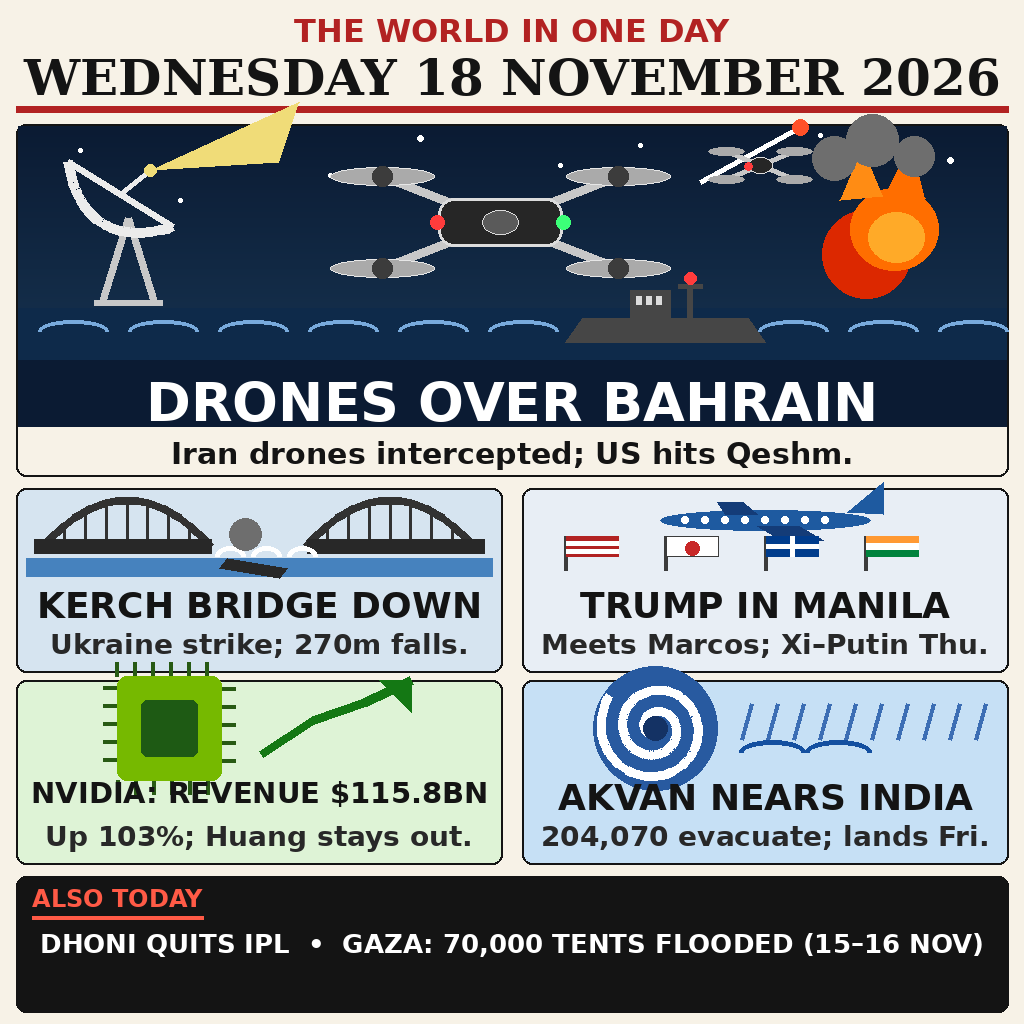
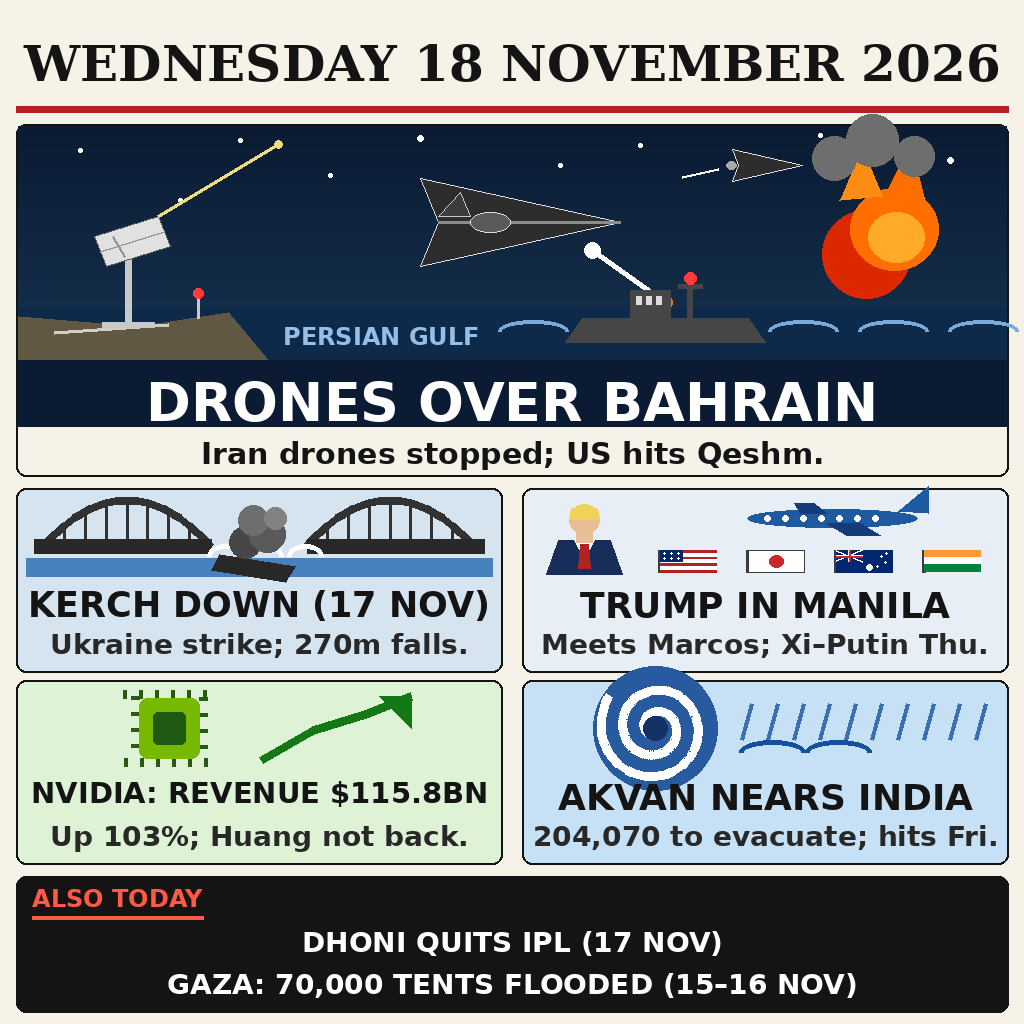
R2: fix JUDGE-R1 findings — flags, dates, hero drone, Trump bust, Kerch smoke

diff --git a/tools/render.py b/tools/render.py
@@ -6,7 +6,13 @@ randomness (star positions are a fixed list), so re-runs are byte-identical.
 
 Layout (1024x1024):
   masthead 0-116 | hero 124-476 | grid 2x2 488-864 | strip 876-1012
-Word budget: 59 words total (counted in BUILD-R1.md).
+Word budget: 59 words total (R2, counted in BUILD-R2.md).
+R2 changes: typo-proof Nvidia sub, redrawn Quad flags, (17 NOV) date
+labels on Kerch + Dhoni, "to evacuate" wording, lowered Nvidia chip,
+military delta-wing hero drone + radar array + PERSIAN GULF label,
+Trump bust, Kerch smoke plume, two-line strip (no 3rd item: the only
+new development, Nvidia after-hours rise, is magnitude-disputed
+1.7-5% across sources and duplicates the Nvidia panel).
 """
 import math
 import os
@@ -69,8 +75,9 @@ def spiral_points(cx, cy, turns, r_max, steps=220):
 
 
 def draw_hero(d, x0, y0, x1, y1):
-    """Night sky over the Gulf: radar left, big delta drone centre,
-    orange explosion right, warship on the sea below."""
+    """Night sky over the Gulf: radar array + headland left, big
+    delta-wing drone centre, orange explosion right, warship on the
+    sea below, PERSIAN GULF sea label."""
     # sky gradient (fixed bands, deterministic)
     for i in range(y1 - y0):
         t = i / max(1, (y1 - y0))
@@ -85,51 +92,56 @@ def draw_hero(d, x0, y0, x1, y1):
         d.ellipse([sx - sr, sy - sr, sx + sr, sy + sr], fill=WHITE)
     sea_y = y1 - 52
     d.rectangle([x0, sea_y, x1, y1], fill=SEA)
-    # waves
-    for wx in range(x0 + 20, x1 - 20, 90):
+    # --- coastline headland + airbase strip, bottom left (Bahrain) ---
+    d.polygon([(x0, y1), (x0, sea_y + 8), (x0 + 120, sea_y + 18),
+               (x0 + 210, sea_y + 4), (x0 + 250, y1)], fill=(96, 88, 66))
+    d.line([(x0 + 36, sea_y + 24), (x0 + 150, sea_y + 16)],
+           fill=(210, 205, 190), width=4)
+    d.line([(x0 + 180, sea_y + 10), (x0 + 180, sea_y - 14)],
+           fill=(200, 200, 200), width=3)
+    d.ellipse([x0 + 175, sea_y - 20, x0 + 185, sea_y - 10],
+              fill=(255, 60, 60))
+    # waves (start right of the Gulf label so they never cross it)
+    for wx in range(x0 + 480, x1 - 20, 90):
         d.arc([wx, sea_y + 12, wx + 70, sea_y + 34], 180, 360,
               fill=(120, 170, 220), width=4)
-    # --- radar dish, left: A-frame mast + tilted parabolic bowl ---
-    bx, by = x0 + 110, sea_y - 6          # mast base
-    d.line([(bx - 26, by), (bx, by - 84)], fill=(200, 200, 200), width=7)
-    d.line([(bx + 26, by), (bx, by - 84)], fill=(200, 200, 200), width=7)
-    d.line([(bx - 34, by), (bx + 34, by)], fill=(200, 200, 200), width=6)
-    # bowl: arc points of a tilted ellipse, drawn as a thick curve
-    pts = []
-    for i in range(41):
-        u = -1.0 + 2.0 * i / 40            # along the dish face
-        v = 0.55 * (1 - u * u)            # bowl depth
-        a = math.radians(32)
-        px = bx - 8 + (u * 62) * math.cos(a) - (v * 62) * math.sin(a)
-        py = by - 108 + (u * 62) * math.sin(a) + (v * 62) * math.cos(a)
-        pts.append((px, py))
-    d.line(pts, fill=(235, 235, 235), width=10, joint="curve")
-    d.line([pts[0], pts[-1]], fill=(235, 235, 235), width=6)
-    d.line([(bx - 8, by - 108), (bx + 22, by - 132)], fill=(235, 235, 235),
-           width=5)
-    d.ellipse([bx + 16, by - 138, bx + 28, by - 126], fill=(240, 220, 120))
-    # sweeping beam (pale yellow wedge up-right)
-    d.polygon([(bx + 22, by - 132), (bx + 170, by - 200), (bx + 150, by - 140)],
+    # sea label, map-style, in the water right of the headland
+    d.text((x0 + 265, sea_y + 14), "PERSIAN GULF", font=font(SANS_B, 24),
+           fill=(150, 190, 230))
+    # --- radar array, left: mast + tilted flat phased-array panel ---
+    bx, by = x0 + 110, sea_y + 16         # mast base, on the headland
+    d.line([(bx, by), (bx, by - 70)], fill=(200, 200, 200), width=7)
+    d.line([(bx - 26, by), (bx + 26, by)], fill=(200, 200, 200), width=6)
+    # tilted rectangular panel (parallelogram), with grid lines
+    d.polygon([(bx - 34, by - 88), (bx + 30, by - 108), (bx + 42, by - 78),
+               (bx - 22, by - 58)], fill=(225, 225, 225),
+              outline=(90, 90, 90))
+    d.line([(bx - 28, by - 73), (bx + 36, by - 93)], fill=(150, 150, 150),
+           width=2)
+    d.line([(bx - 16, by - 88), (bx - 4, by - 68)], fill=(150, 150, 150),
+           width=2)
+    # thin sweep line up-right (no big wedge: R1 beam dominated)
+    d.line([(bx + 30, by - 108), (bx + 150, by - 180)],
+           fill=(240, 220, 120), width=3)
+    d.ellipse([bx + 146, by - 184, bx + 154, by - 176],
               fill=(240, 220, 120))
-    # --- quadcopter drone, centre: body + 4 arms + spinning rotors ---
+    # --- military delta-wing drone (Shahed-style flying wing), centre ---
+    # No rotors, no nav lights: a flat dark triangle, nose right,
+    # with a rear pusher prop and a small tail fin.
     cx, cy = 500, 222
-    # arms to the four rotor hubs
-    for hx, hy in [(cx - 118, cy - 46), (cx + 118, cy - 46),
-                   (cx - 118, cy + 46), (cx + 118, cy + 46)]:
-        d.line([(cx, cy), (hx, hy)], fill=(200, 200, 200), width=9)
-        d.ellipse([hx - 52, hy - 9, hx + 52, hy + 9], fill=(170, 170, 170),
-                  outline=(230, 230, 230))
-        d.ellipse([hx - 10, hy - 10, hx + 10, hy + 10], fill=(60, 60, 60))
-    d.rounded_rectangle([cx - 62, cy - 24, cx + 62, cy + 24], radius=16,
-                        fill=(38, 38, 38), outline=(220, 220, 220), width=3)
-    d.ellipse([cx - 18, cy - 12, cx + 18, cy + 12], fill=(90, 90, 90),
+    d.polygon([(cx + 120, cy), (cx - 80, cy - 44), (cx - 62, cy),
+               (cx - 80, cy + 44)], fill=(45, 45, 45),
               outline=(220, 220, 220))
-    # red navigation lights front/back, green light on the nose
-    d.ellipse([cx - 70, cy - 7, cx - 56, cy + 7], fill=(255, 60, 60))
-    d.ellipse([cx + 56, cy - 7, cx + 70, cy + 7], fill=(60, 255, 120))
-    # interceptor streak crossing toward the drone from the right
-    d.line([(cx + 300, cy - 95), (cx + 200, cy - 40)], fill=WHITE, width=5)
-    d.ellipse([cx + 292, cy - 103, cx + 308, cy - 87], fill=(255, 80, 40))
+    d.line([(cx + 120, cy), (cx - 62, cy)], fill=(140, 140, 140), width=3)
+    d.polygon([(cx - 62, cy - 6), (cx - 40, cy - 30), (cx - 30, cy - 6)],
+              fill=(60, 60, 60), outline=(200, 200, 200))
+    d.ellipse([cx - 30, cy - 10, cx + 10, cy + 10], fill=(90, 90, 90),
+              outline=(220, 220, 220))
+    # interceptor missile climbing at the drone from below right:
+    # white body streak, orange flame at the rear (away from the drone)
+    d.line([(cx + 92, cy + 28), (cx + 162, cy + 78)], fill=WHITE, width=5)
+    d.ellipse([cx + 84, cy + 20, cx + 100, cy + 36], fill=WHITE)
+    d.ellipse([cx + 156, cy + 72, cx + 172, cy + 88], fill=(255, 110, 0))
     # --- explosion burst, right: irregular fireball, no sun-like rays ---
     ex, ey = 880, 240
     d.ellipse([ex - 58, ey - 30, ex + 30, ey + 58], fill=(220, 40, 0))
@@ -143,18 +155,14 @@ def draw_hero(d, x0, y0, x1, y1):
     for sx, sy, sr in [(ex - 46, ey - 82, 22), (ex - 8, ey - 100, 26),
                        (ex + 34, ey - 84, 20)]:
         d.ellipse([sx - sr, sy - sr, sx + sr, sy + sr], fill=(110, 110, 110))
-    # small second drone, top right
+    # small second drone, top right: same delta-wing shape, smaller,
+    # with a short white contrail behind it
     sx, sy = 760, 165
-    d.line([(sx - 34, sy - 14), (sx + 34, sy + 14)], fill=(200, 200, 200),
-           width=5)
-    d.line([(sx - 34, sy + 14), (sx + 34, sy - 14)], fill=(200, 200, 200),
-           width=5)
-    for hx, hy in [(sx - 34, sy - 14), (sx + 34, sy - 14), (sx - 34, sy + 14),
-                   (sx + 34, sy + 14)]:
-        d.ellipse([hx - 18, hy - 4, hx + 18, hy + 4], fill=(170, 170, 170))
-    d.ellipse([sx - 12, sy - 8, sx + 12, sy + 8], fill=(38, 38, 38),
+    d.line([(sx - 78, sy + 12), (sx - 42, sy + 4)], fill=WHITE, width=3)
+    d.polygon([(sx + 42, sy), (sx - 28, sy - 16), (sx - 22, sy),
+               (sx - 28, sy + 16)], fill=(45, 45, 45),
               outline=(220, 220, 220))
-    d.ellipse([sx - 16, sy - 3, sx - 8, sy + 5], fill=(255, 60, 60))
+    d.ellipse([sx - 34, sy - 4, sx - 24, sy + 4], fill=(170, 170, 170))
     # --- warship silhouette on the sea ---
     hx, hy = 660, sea_y + 8
     d.polygon([(hx - 95, hy + 26), (hx + 105, hy + 26), (hx + 88, hy + 2),
@@ -196,81 +204,122 @@ def draw_kerch(d, x0, y0, x1, y1):
     d.rectangle([x0 + 8, deck_y - 7, mid - 48, deck_y + 7], fill=(40, 40, 40))
     d.rectangle([mid + 48, deck_y - 7, x1 - 8, deck_y + 7], fill=(40, 40, 40))
     # fallen deck fragment, tilted, just above the water + splash
-    d.polygon([(mid - 32, deck_y + 12), (mid + 28, deck_y + 22),
-               (mid + 20, deck_y + 32), (mid - 40, deck_y + 22)],
+    # (bigger than R1: the collapse must read at 300px)
+    d.polygon([(mid - 40, deck_y + 8), (mid + 36, deck_y + 20),
+               (mid + 26, deck_y + 36), (mid - 48, deck_y + 24)],
               fill=(40, 40, 40))
-    for sx in (mid - 44, mid - 8, mid + 28):
-        d.arc([sx, sea_y - 12, sx + 30, sea_y + 8], 180, 360,
+    for sx in (mid - 52, mid - 12, mid + 28):
+        d.arc([sx, sea_y - 14, sx + 36, sea_y + 10], 180, 360,
               fill=WHITE, width=5)
-    # smoke over the gap
-    d.ellipse([mid - 30, y0 + 22, mid + 2, y0 + 54], fill=(110, 110, 110))
+    # smoke plume over the gap: irregular rising puffs, dark at the
+    # base where it leaves the fallen deck (R1's single grey ball
+    # read as a moon). Clearly anchored to the wreck, not a disc.
+    for sx, sy, sr, col in [(mid - 14, deck_y - 4, 16, (70, 70, 70)),
+                            (mid + 8, deck_y - 12, 18, (90, 90, 90)),
+                            (mid - 6, deck_y - 26, 15, (110, 110, 110)),
+                            (mid + 16, deck_y - 28, 11, (130, 130, 130))]:
+        d.ellipse([sx - sr, sy - sr, sx + sr, sy + sr], fill=col)
 
 
 def draw_trump(d, x0, y0, x1, y1):
-    """Air Force One (small, high) over the four Quad flags."""
+    """Trump bust (blond hair, navy suit, red tie) at left, Air Force
+    One small and high, and the four Quad flags redrawn correctly
+    along the bottom: US (stripes + blue canton with star dots),
+    Japan (red disc), Australia (blue ensign: Union Jack canton +
+    Southern Cross dots), India (saffron/white/green)."""
     d.rectangle([x0, y0, x1, y1], fill=(232, 238, 245))
-    cx = (x0 + x1) // 2
-    py = y0 + 24
-    # plane: short fuselage, tail fin, one thin swept wing below
-    d.ellipse([cx - 105, py - 10, cx + 105, py + 10], fill=(30, 90, 160))
-    d.polygon([(cx + 82, py - 8), (cx + 118, py - 38), (cx + 118, py - 6)],
+    # --- figure, left: navy suit, white shirt, red tie, blond hair ---
+    fx = x0 + 52
+    d.polygon([(fx - 38, y1 - 2), (fx + 38, y1 - 2), (fx + 26, y0 + 44),
+               (fx - 26, y0 + 44)], fill=(25, 45, 90))
+    d.polygon([(fx - 10, y0 + 44), (fx + 10, y0 + 44), (fx, y0 + 62)],
+              fill=(255, 255, 255))
+    d.polygon([(fx - 4, y0 + 48), (fx + 4, y0 + 48), (fx + 6, y0 + 72),
+               (fx - 6, y0 + 72)], fill=(178, 34, 34))
+    d.rectangle([fx - 8, y0 + 34, fx + 8, y0 + 46], fill=(232, 190, 150))
+    d.ellipse([fx - 15, y0 + 8, fx + 15, y0 + 38], fill=(232, 190, 150))
+    d.pieslice([fx - 15, y0 + 8, fx + 15, y0 + 38], 180, 360,
+               fill=(240, 210, 90))
+    d.polygon([(fx - 15, y0 + 22), (fx + 15, y0 + 22), (fx + 13, y0 + 12),
+               (fx - 13, y0 + 12)], fill=(240, 210, 90))
+    # --- plane: smaller, top-right ---
+    cx = x0 + 300
+    py = y0 + 22
+    d.ellipse([cx - 85, py - 9, cx + 85, py + 9], fill=(30, 90, 160))
+    d.polygon([(cx + 66, py - 7), (cx + 96, py - 32), (cx + 96, py - 5)],
               fill=(30, 90, 160))
-    d.polygon([(cx - 8, py + 6), (cx + 34, py + 6), (cx + 58, py + 20),
-               (cx + 16, py + 20)], fill=(20, 60, 120))
-    d.polygon([(cx - 40, py - 6), (cx - 8, py - 6), (cx - 22, py - 18),
-               (cx - 48, py - 18)], fill=(20, 60, 120))
-    for wx in range(cx - 84, cx + 70, 20):
-        d.ellipse([wx, py - 4, wx + 7, py + 3], fill=WHITE)
-    # four Quad flags on poles along the bottom: US, Japan, Australia, India
-    fy = y1 - 6
-    fx = x0 + 34
-    # US: red with white stripes
-    d.line([(fx, fy), (fx, fy - 34)], fill=(60, 60, 60), width=4)
-    d.rectangle([fx, fy - 34, fx + 52, fy - 14], fill=(178, 34, 34))
-    d.rectangle([fx, fy - 29, fx + 52, fy - 25], fill=WHITE)
-    d.rectangle([fx, fy - 21, fx + 52, fy - 17], fill=WHITE)
+    d.polygon([(cx - 6, py + 5), (cx + 28, py + 5), (cx + 48, py + 17),
+               (cx + 14, py + 17)], fill=(20, 60, 120))
+    d.polygon([(cx - 32, py - 5), (cx - 6, py - 5), (cx - 18, py - 15),
+               (cx - 38, py - 15)], fill=(20, 60, 120))
+    for wx in range(cx - 68, cx + 56, 18):
+        d.ellipse([wx, py - 3, wx + 6, py + 3], fill=WHITE)
+    # --- four Quad flags on poles along the bottom ---
+    fy = y1 - 4
+    # US: red field, white stripes, blue canton with star dots
+    fx = x0 + 128
+    d.line([(fx, fy), (fx, fy - 22)], fill=(60, 60, 60), width=4)
+    d.rectangle([fx, fy - 22, fx + 56, fy], fill=(178, 34, 34))
+    for wy in (fy - 19, fy - 13, fy - 6):
+        d.rectangle([fx, wy, fx + 56, wy + 3], fill=WHITE)
+    d.rectangle([fx, fy - 22, fx + 22, fy - 11], fill=(0, 40, 110))
+    for sx in (fx + 4, fx + 11, fx + 18):
+        for sy in (fy - 19, fy - 14):
+            d.ellipse([sx - 1, sy - 1, sx + 1, sy + 1], fill=WHITE)
     # Japan: white with red dot
-    fx += 100
-    d.line([(fx, fy), (fx, fy - 34)], fill=(60, 60, 60), width=4)
-    d.rectangle([fx, fy - 34, fx + 52, fy - 14], fill=WHITE,
+    fx += 88
+    d.line([(fx, fy), (fx, fy - 22)], fill=(60, 60, 60), width=4)
+    d.rectangle([fx, fy - 22, fx + 56, fy], fill=WHITE,
                 outline=(60, 60, 60))
-    d.ellipse([fx + 19, fy - 29, fx + 33, fy - 15], fill=(200, 40, 40))
-    # Australia: blue with white cross bars
-    fx += 100
-    d.line([(fx, fy), (fx, fy - 34)], fill=(60, 60, 60), width=4)
-    d.rectangle([fx, fy - 34, fx + 52, fy - 14], fill=(0, 60, 140))
-    d.rectangle([fx, fy - 26, fx + 52, fy - 22], fill=WHITE)
-    d.rectangle([fx + 24, fy - 34, fx + 28, fy - 14], fill=WHITE)
+    d.ellipse([fx + 21, fy - 17, fx + 35, fy - 5], fill=(200, 40, 40))
+    # Australia: blue ensign — Union Jack canton + Southern Cross
+    fx += 88
+    d.line([(fx, fy), (fx, fy - 22)], fill=(60, 60, 60), width=4)
+    d.rectangle([fx, fy - 22, fx + 56, fy], fill=(0, 40, 110))
+    d.line([(fx, fy - 22), (fx + 26, fy - 11)], fill=WHITE, width=2)
+    d.line([(fx + 26, fy - 22), (fx, fy - 11)], fill=WHITE, width=2)
+    d.line([(fx + 13, fy - 22), (fx + 13, fy - 11)], fill=WHITE, width=3)
+    d.line([(fx, fy - 16), (fx + 26, fy - 16)], fill=WHITE, width=3)
+    d.line([(fx + 13, fy - 22), (fx + 13, fy - 11)], fill=(200, 40, 40),
+           width=2)
+    d.line([(fx, fy - 16), (fx + 26, fy - 16)], fill=(200, 40, 40), width=2)
+    d.ellipse([fx + 30, fy - 8, fx + 36, fy - 2], fill=WHITE)
+    for sx, sy in [(fx + 45, fy - 16), (fx + 49, fy - 10), (fx + 41, fy - 6),
+                    (fx + 50, fy - 19)]:
+        d.ellipse([sx - 1, sy - 1, sx + 1, sy + 1], fill=WHITE)
     # India: saffron / white / green
-    fx += 100
-    d.line([(fx, fy), (fx, fy - 34)], fill=(60, 60, 60), width=4)
-    d.rectangle([fx, fy - 34, fx + 52, fy - 27], fill=(255, 153, 51))
-    d.rectangle([fx, fy - 27, fx + 52, fy - 20], fill=WHITE)
-    d.rectangle([fx, fy - 20, fx + 52, fy - 14], fill=(0, 130, 60))
+    fx += 88
+    d.line([(fx, fy), (fx, fy - 22)], fill=(60, 60, 60), width=4)
+    d.rectangle([fx, fy - 22, fx + 56, fy - 15], fill=(255, 153, 51))
+    d.rectangle([fx, fy - 15, fx + 56, fy - 8], fill=WHITE)
+    d.rectangle([fx, fy - 8, fx + 56, fy - 1], fill=(0, 130, 60))
 
 
 def draw_nvidia(d, x0, y0, x1, y1):
-    """Green GPU chip + steep rising arrow."""
+    """Green GPU chip + steep rising arrow. R2: chip shrunk to fit
+    its 80px icon zone (R1 pins crossed the panel top and cut the
+    headline); pins now stop 2px inside the zone, 10px clear of
+    the headline below."""
     d.rectangle([x0, y0, x1, y1], fill=(222, 243, 214))
     cx = (x0 + x1) // 2 - 90
     cy = (y0 + y1) // 2
-    # chip pins
-    for px in range(cx - 52, cx + 53, 18):
-        d.line([(px, cy - 52), (px, cy - 66)], fill=(40, 90, 20), width=4)
-        d.line([(px, cy + 52), (px, cy + 66)], fill=(40, 90, 20), width=4)
-    for py in range(cy - 40, cy + 41, 18):
-        d.line([(cx - 52, py), (cx - 66, py)], fill=(40, 90, 20), width=4)
-        d.line([(cx + 52, py), (cx + 66, py)], fill=(40, 90, 20), width=4)
-    d.rounded_rectangle([cx - 52, cy - 52, cx + 52, cy + 52], radius=10,
+    # chip pins (stop at cy +/- 38: zone half-height is 40)
+    for px in range(cx - 44, cx + 45, 16):
+        d.line([(px, cy - 30), (px, cy - 38)], fill=(40, 90, 20), width=4)
+        d.line([(px, cy + 30), (px, cy + 38)], fill=(40, 90, 20), width=4)
+    for py in range(cy - 30, cy + 31, 16):
+        d.line([(cx - 30, py), (cx - 38, py)], fill=(40, 90, 20), width=4)
+        d.line([(cx + 30, py), (cx + 38, py)], fill=(40, 90, 20), width=4)
+    d.rounded_rectangle([cx - 30, cy - 30, cx + 30, cy + 30], radius=8,
                         fill=(118, 185, 0))
-    d.rounded_rectangle([cx - 28, cy - 28, cx + 28, cy + 28], radius=6,
+    d.rounded_rectangle([cx - 16, cy - 16, cx + 16, cy + 16], radius=5,
                         fill=(30, 90, 20))
     # rising arrow, right side
-    ax0, ay1 = cx + 92, y1 - 14
-    d.line([(ax0, ay1), (ax0 + 52, ay1 - 34), (ax0 + 104, ay1 - 52),
-            (ax0 + 150, ay1 - 74)], fill=(20, 120, 20), width=9)
-    d.polygon([(ax0 + 150, ay1 - 74), (ax0 + 118, ay1 - 74),
-               (ax0 + 150, ay1 - 42)], fill=(20, 120, 20))
+    ax0, ay1 = cx + 92, y1 - 8
+    d.line([(ax0, ay1), (ax0 + 52, ay1 - 30), (ax0 + 104, ay1 - 46),
+            (ax0 + 150, ay1 - 64)], fill=(20, 120, 20), width=9)
+    d.polygon([(ax0 + 150, ay1 - 64), (ax0 + 118, ay1 - 64),
+               (ax0 + 150, ay1 - 32)], fill=(20, 120, 20))
 
 
 def draw_akvan(d, x0, y0, x1, y1):
@@ -307,9 +356,10 @@ def main():
     img = Image.new("RGB", (W, H), CREAM)
     d = ImageDraw.Draw(img)
 
-    # ---- masthead ----
-    centre(d, W // 2, 12, "THE WORLD IN ONE DAY", font(SANS_B, 32), RED)
-    centre(d, W // 2, 48, "WEDNESDAY 18 NOVEMBER 2026",
+    # ---- masthead: date only (R2: the "THE WORLD IN ONE DAY" title
+    # was dropped to pay for the two (17 NOV) date labels + the
+    # PERSIAN GULF map label inside the ~60-word budget) ----
+    centre(d, W // 2, 34, "WEDNESDAY 18 NOVEMBER 2026",
            font(SERIF_B, 50), INK)
     d.rectangle([16, 106, W - 16, 112], fill=RED)
 
@@ -320,30 +370,32 @@ def main():
     d.rectangle([hx0 + 2, hy0 + 236, hx1 - 2, hy0 + 302], fill=NAVY)
     centre(d, W // 2, hy0 + 246, "DRONES OVER BAHRAIN",
            font(SANS_B, 54), WHITE)
-    centre(d, W // 2, hy0 + 312, "Iran drones intercepted; US hits Qeshm.",
+    centre(d, W // 2, hy0 + 312, "Iran drones stopped; US hits Qeshm.",
            font(SANS_B, 30), INK)
 
     # ---- grid 2x2 ----
     panel(d, 16, 488, 502, 672, (214, 228, 240), draw_kerch,
-          "KERCH BRIDGE DOWN", "Ukraine strike; 270m falls.")
+          "KERCH DOWN (17 NOV)", "Ukraine strike; 270m falls.")
     panel(d, 522, 488, 1008, 672, (232, 238, 245), draw_trump,
           "TRUMP IN MANILA", "Meets Marcos; Xi\u2013Putin Thu.")
     panel(d, 16, 680, 502, 864, (222, 243, 214), draw_nvidia,
-          "NVIDIA: REVENUE $115.8BN", "Up 103%; Huang stays out.")
+          "NVIDIA: REVENUE $115.8BN", "Up 103%; Huang not back.")
     panel(d, 522, 680, 1008, 864, (198, 224, 245), draw_akvan,
-          "AKVAN NEARS INDIA", "204,070 evacuate; lands Fri.")
+          "AKVAN NEARS INDIA", "204,070 to evacuate; hits Fri.")
 
-    # ---- strip ALSO TODAY ----
+    # ---- strip ALSO TODAY: two full-size lines (28px) instead of
+    # one cramped line — fills the dead black space R1 left below
+    # the single line, and carries the (17 NOV) label for Dhoni ----
     sx0, sy0, sx1, sy1 = 16, 876, W - 16, 1012
     d.rounded_rectangle([sx0, sy0, sx1, sy1], radius=10, fill=(20, 20, 20))
     d.text((32, sy0 + 8), "ALSO TODAY", font=font(SANS_B, 24), fill=(255, 90, 70))
-    items = ("DHONI QUITS IPL  \u2022  GAZA: 70,000 TENTS FLOODED "
-             "(15\u201316 NOV)")
-    fnt = fit_font(SANS_B, items, 28, (sx1 - sx0) - 32, minimum=24)
-    centre(d, W // 2, sy0 + 52, items, fnt, WHITE)
     # thin red rule under the strip label, echoing the masthead
     d.rectangle([32, sy0 + 40, 32 + text_w(font(SANS_B, 24), "ALSO TODAY"),
                  sy0 + 43], fill=(255, 90, 70))
+    centre(d, W // 2, sy0 + 50, "DHONI QUITS IPL (17 NOV)",
+           font(SANS_B, 28), WHITE)
+    centre(d, W // 2, sy0 + 92, "GAZA: 70,000 TENTS FLOODED "
+           "(15\u201316 NOV)", font(SANS_B, 28), WHITE)
 
     os.makedirs(os.path.dirname(OUT), exist_ok=True)
     img.save(OUT, format="PNG", optimize=True)
